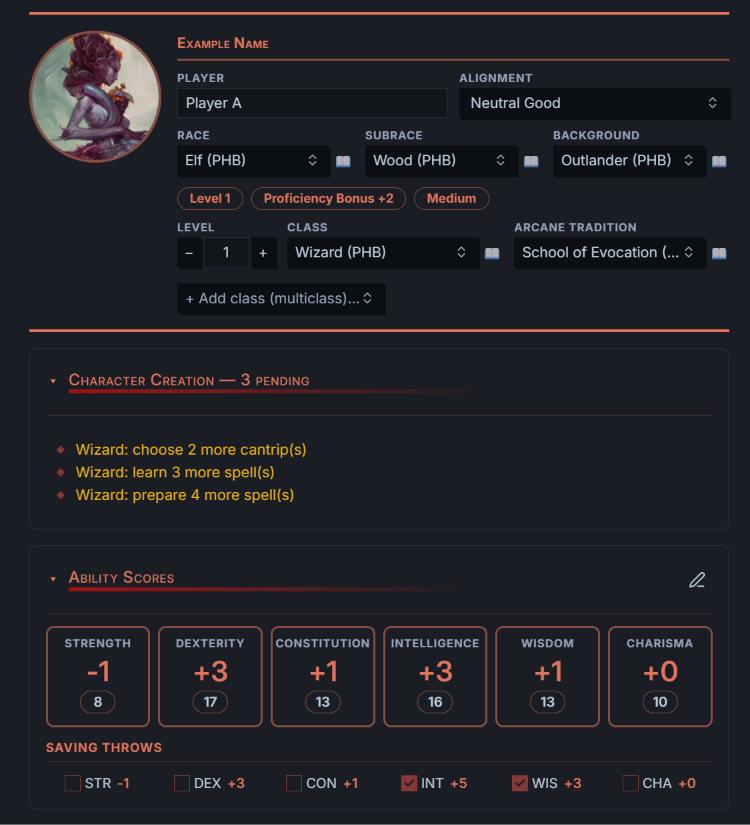
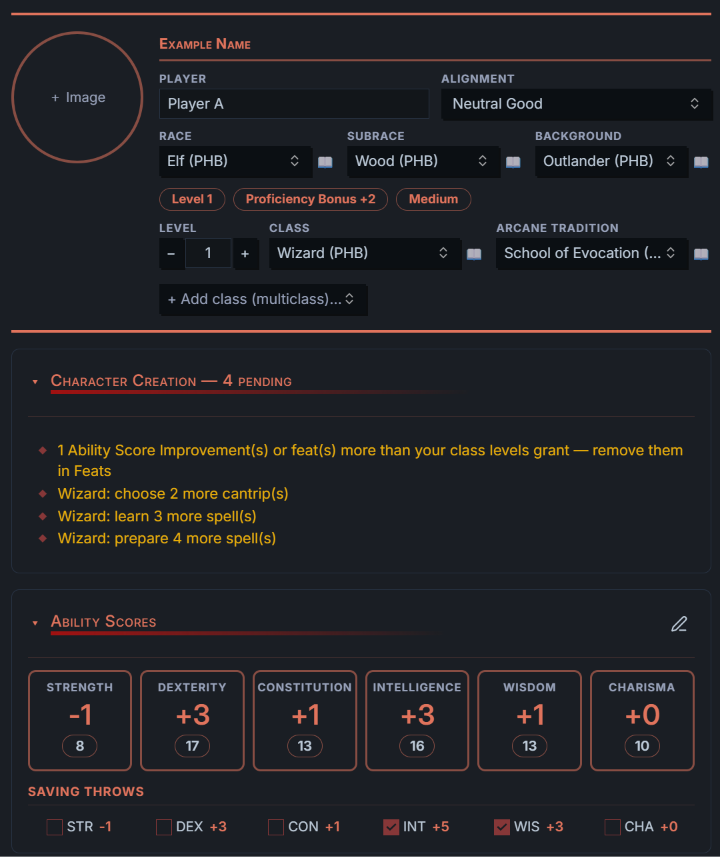
1.0.1: clamp current HP, flag extra ASIs, Button for image removal

diff --git a/src/ui/sheet.ts b/src/ui/sheet.ts
@@ -51,6 +51,12 @@ export class CharacterSheet extends MarkdownRenderChild {
   // ---------------------------------------------------------------- persistence
   private change(mutate: (s: CharState) => void, rerender = true) {
     mutate(this.s);
+    // a lower maximum (level down, CON down, manual edit) must not leave current HP above it
+    if (this.s.hp.current != null) {
+      const view = this.manual ? E.manualView(this.s) : this.s;
+      const max = this.manual ? this.s.manual.maxHp : E.hpBreakdown(this.r, view).max;
+      this.s.hp.current = E.currentHp(this.s, max);
+    }
     this.plugin.states.set(this.sourcePath, this.s);
     if (this.saveTimer) window.clearTimeout(this.saveTimer);
     this.saveTimer = window.setTimeout(() => this.flush(), 500);
@@ -75,7 +81,7 @@ export class CharacterSheet extends MarkdownRenderChild {
       fm.ac = man ? s0.manual.ac : E.armorClass(r, s, sc).value;
       fm.modifier = E.initiative(r, s, sc);
       fm.stats = ABILITIES.map((a) => sc[a].total);
-      if (s.image) fm.image = s.image;
+      if (s0.image) fm.image = s0.image; else delete fm.image;
       for (const k of Object.keys(fm)) if (fm[k] === undefined) delete fm[k];
     });
   }
@@ -157,11 +163,20 @@ export class CharacterSheet extends MarkdownRenderChild {
   private header(root: HTMLElement, sc: Record<Ability, E.AbilityBreakdown>) {
     const s = this.v, r = this.r;
     const head = root.createDiv({ cls: "dnd-header" });
-    const img = head.createDiv({ cls: "dnd-portrait", attr: { "aria-label": "Click to choose an image" } });
+    // the remove button sits outside the round portrait so the circle does not clip it
+    const pwrap = head.createDiv({ cls: "dnd-portrait-wrap" });
+    const img = pwrap.createDiv({ cls: "dnd-portrait", attr: { "aria-label": "Click to choose an image" } });
     const file = s.image ? this.app.vault.getAbstractFileByPath(s.image) : null;
     if (file instanceof TFile) img.createEl("img", { attr: { src: this.app.vault.getResourcePath(file) } });
     else img.createDiv({ cls: "dnd-portrait-empty", text: "＋ Image" });
-    img.onclick = () => new Picker(this.app, imageFiles(this.app), (f) => f.path, (f) => this.change((x) => { x.image = f.path; }), "Choose a portrait image…").open();
+    const removeImage = () => this.change((x) => { x.image = ""; });
+    img.onclick = () => {
+      // "No image" comes first in the list when there is an image to remove
+      const NONE = { path: "— No image —" } as unknown as TFile;
+      const items: TFile[] = s.image ? [NONE, ...imageFiles(this.app)] : imageFiles(this.app);
+      new Picker(this.app, items, (f) => f.path, (f) => (f === NONE ? removeImage() : this.change((x) => { x.image = f.path; })), "Choose a portrait image…").open();
+    };
+    if (s.image) iconButton(pwrap, "x", "Remove image", removeImage, "dnd-portrait-remove");
 
     const info = head.createDiv({ cls: "dnd-header-info" });
     textInput(info, s.name, (v) => this.change((x) => { x.name = v; }), "Character name", "dnd-name");
@@ -346,7 +361,7 @@ export class CharacterSheet extends MarkdownRenderChild {
       // manual mode: AC, max HP and speed are typed in instead of computed
       const hp = man ? { max: m.maxHp } : E.hpBreakdown(r, s, sc);
       const ac = man ? { value: m.ac, how: "", stealthDisadvantage: false } : E.armorClass(r, s, sc);
-      const cur = s.hp.current ?? hp.max;
+      const cur = E.currentHp(s, hp.max);
       const stats = el.createDiv({ cls: "dnd-combat-stats" });
       const acBox = stats.createDiv({ cls: "dnd-stat" });
       acBox.createDiv({ cls: "dnd-stat-label", text: "Armor Class" });
@@ -540,8 +555,9 @@ export class CharacterSheet extends MarkdownRenderChild {
     }
     const s = this.v, r = this.r;
     const slots = E.asiSlots(r, s), taken = E.asiTaken(s);
-    this.section(root, "feats", `Feats & Ability Score Improvements${slots ? ` (${taken}/${slots})` : ""}`, (el) => {
-      if (slots) el.createDiv({ cls: taken > slots ? "dnd-warn" : "dnd-hint", text: `Your class levels grant ${slots} Ability Score Improvement(s). Each can be +2 to one ability, +1 to two, or a feat.` });
+    this.section(root, "feats", `Feats & Ability Score Improvements${slots || taken ? ` (${taken}/${slots})` : ""}`, (el) => {
+      if (taken > slots) el.createDiv({ cls: "dnd-warn", text: `${taken} Ability Score Improvement(s)/feat(s) used, but your class levels grant ${slots || "none yet"}. Remove the extra ones.` });
+      else if (slots) el.createDiv({ cls: "dnd-hint", text: `Your class levels grant ${slots} Ability Score Improvement(s). Each can be +2 to one ability, +1 to two, or a feat.` });
       s.feats.forEach((fe, i) => {
         const row = el.createDiv({ cls: "dnd-row" });
         if (fe.id === E.ASI_ID) {

diff --git a/src/rules/engine.ts b/src/rules/engine.ts
@@ -280,6 +280,10 @@ export function hpBreakdown(r: Rules, s: CharState, scores = abilityScores(r, s)
   const computed = Math.max(level, dice + con * level + racial + tough + draconic) + (s.hp.adjust || 0);
   return { dice, con: con * level, racial, tough, draconic, adjust: s.hp.adjust || 0, max: s.hp.override ?? computed };
 }
+/** Current HP, never above the maximum or below 0 (no current value yet = full health). */
+export function currentHp(s: CharState, max: number) {
+  return Math.max(0, Math.min(s.hp.current ?? max, max));
+}
 export function hitDice(r: Rules, s: CharState) {
   const by: Record<string, number> = {};
   s.classes.forEach((e) => { const hd = `d${r.cls(e.id)?.hd || 8}`; by[hd] = (by[hd] || 0) + e.level; });
@@ -497,6 +501,7 @@ export function pendingChoices(r: Rules, s: CharState): string[] {
   if (s.abilities.method === "pointbuy") { const pbs = pointBuySpent(s.abilities.base); if (!pbs.valid) out.push("Point buy is over 27 points or out of range (8–15)"); else if (pbs.remaining > 0) out.push(`${pbs.remaining} point-buy point(s) unspent`); }
   const free = asiSlots(r, s) - asiTaken(s);
   if (free > 0) out.push(`${free} Ability Score Improvement(s) available — add an ASI or a feat in Feats`);
+  if (free < 0) out.push(`${-free} Ability Score Improvement(s) or feat(s) more than your class levels grant — remove them in Feats`);
   s.feats.filter((f) => f.id === ASI_ID && f.picks.filter(Boolean).length < 2).forEach(() => out.push("Choose the abilities for your Ability Score Improvement"));
   const scores = abilityScores(r, s);
   for (const ci of casters(r, s, scores)) {

diff --git a/styles.css b/styles.css
@@ -104,11 +104,21 @@
   border-bottom: 3px solid var(--dnd-accent);
 }
 .dnd-portrait {
-  flex: 0 0 132px; height: 132px; border-radius: 50%; overflow: hidden; cursor: pointer;
+  width: 132px; height: 132px; border-radius: 50%; overflow: hidden; cursor: pointer;
   border: 3px solid var(--dnd-rule); background: var(--background-secondary);
   display: flex; align-items: center; justify-content: center;
 }
 .dnd-portrait img { width: 100%; height: 100%; object-fit: cover; }
+.dnd-portrait-wrap { position: relative; flex: 0 0 132px; }
+.dnd-sheet .dnd-portrait-remove {
+  position: absolute; top: 2px; right: 2px; width: 26px; height: 26px; border-radius: 50%;
+  background: var(--background-primary); border: 1px solid var(--dnd-rule); box-shadow: var(--shadow-s);
+  opacity: 0; transition: opacity 120ms ease-in-out;
+}
+.dnd-portrait-wrap:hover .dnd-portrait-remove, .dnd-sheet .dnd-portrait-remove:focus-visible { opacity: 1; }
+.dnd-sheet .dnd-portrait-remove:hover { color: var(--text-error); border-color: var(--text-error); }
+/* touch screens have no hover: keep the button visible */
+@media (hover: none) { .dnd-sheet .dnd-portrait-remove { opacity: 1; } }
 .dnd-portrait-empty { color: var(--text-muted); font-size: 0.85rem; }
 .dnd-header-info { flex: 1; min-width: 0; display: flex; flex-direction: column; gap: var(--dnd-s3); }
 .dnd-sheet .dnd-name {

diff --git a/test/srd-manual.test.ts b/test/srd-manual.test.ts
@@ -83,3 +83,25 @@ test("switching modes keeps both sets of fields", () => {
   assert.equal(E.totalLevel(E.manualView(round)), 2);
   assert.equal(E.totalLevel(round), 4);
 });
+
+test("current HP never shows above the maximum", () => {
+  const s = E.newCharacter("Hp");
+  assert.equal(E.currentHp(s, 12), 12); // no value yet = full health
+  s.hp.current = 32;
+  assert.equal(E.currentHp(s, 7), 7);
+  s.hp.current = -3;
+  assert.equal(E.currentHp(s, 7), 0);
+  s.hp.current = 5;
+  assert.equal(E.currentHp(s, 7), 5);
+});
+
+test("extra Ability Score Improvements are flagged", () => {
+  const s = E.newCharacter("Asi");
+  const wizard = srd.classes.find((c: any) => c.name === "Wizard");
+  s.classes = [{ id: wizard.id, subclass: null, level: 1, hpRolls: [], skills: [] }];
+  s.feats = [{ id: E.ASI_ID, picks: ["int", "dex"] }];
+  assert.equal(E.asiSlots(r, s), 0);
+  assert.ok(E.pendingChoices(r, s).some((p) => /more than your class levels grant/.test(p)));
+  s.classes[0].level = 4;
+  assert.ok(!E.pendingChoices(r, s).some((p) => /more than your class levels grant|available/.test(p)));
+});

diff --git a/README.md b/README.md
@@ -1,10 +1,64 @@
-# 5e Character Sheet for Obsidian
+<h1 align="center">5e Character Sheet</h1>
 
-An interactive character sheet for **fifth edition (2014 rules)** characters, living inside an ordinary Obsidian note. Create a character in a few clicks, keep your friends' characters next to your campaign notes, and roll straight from the sheet.
+<p align="center">
+  Interactive <b>fifth edition (2014 rules)</b> character sheets that live inside your Obsidian notes.<br>
+  Create a character in a few clicks, keep your friends' characters next to your campaign notes, and roll straight from the sheet.
+</p>
 
-> Unofficial. Not affiliated with, endorsed, sponsored or approved by Wizards of the Coast. See [Legal](#legal).
+<p align="center">
+  <a href="https://github.com/admiravelhomemdasneves/5eCharacterSheet/releases/latest"><img src="https://img.shields.io/github/v/release/admiravelhomemdasneves/5eCharacterSheet?label=release&color=922610" alt="Latest release"></a>
+  <img src="https://img.shields.io/badge/Obsidian-1.4%2B-7c3aed" alt="Obsidian 1.4+">
+  <img src="https://img.shields.io/badge/rules-5e%202014-922610" alt="5e 2014 rules">
+  <a href="LICENSE"><img src="https://img.shields.io/badge/license-MIT-blue" alt="MIT license"></a>
+</p>
 
-## Features
+<p align="center"><img src="https://raw.githubusercontent.com/admiravelhomemdasneves/5eCharacterSheet/main/docs/images/Sheet01.png" alt="Character sheet: portrait, race, class and ability scores" width="720"></p>
+
+> Unofficial fan project. Not affiliated with, endorsed, sponsored or approved by Wizards of the Coast. See [Legal](#legal).
+
+## Highlights
+
+- **Everything in one note.** Race, class (multiclass included), background, ability scores, combat, skills, features, spells, inventory, personality and a diary, saved in the note itself.
+- **Rules done for you.** Racial bonuses, proficiency, saves and skills, AC, hit points, spell save DC, spell slots (single and multiclass), class features by level and a creation checklist that tells you what is still missing.
+- **Works with or without game data.** Manual mode for homebrew and quick notes, the SRD 5.1 built in, or import the books you own.
+- **Roll from the sheet.** Click any bonus to roll; Shift-click for advantage, Ctrl/Cmd-click for disadvantage. Uses [Dice Roller](https://github.com/javalent/dice-roller) when installed.
+- **Linked to your notes.** Optional links and page previews to a compendium, `[[links]]` in every text field, and Initiative Tracker integration.
+
+## A quick tour
+
+### Choose race, class and background
+Searchable menus grouped by book. Hover an option to preview its compendium note before choosing.
+
+<p align="center"><img src="https://raw.githubusercontent.com/admiravelhomemdasneves/5eCharacterSheet/main/docs/images/MenuDropDown.png" alt="Race menu with the compendium note preview" width="780"></p>
+
+### Combat and skills
+AC, initiative and speed are calculated from your equipment, class and race, and can be adjusted with + and −. Track HP, temporary HP, exhaustion, death saves, hit dice and conditions. Skills show where each proficiency comes from; click the dot to cycle none → proficient → expertise.
+
+<p align="center"><img src="https://raw.githubusercontent.com/admiravelhomemdasneves/5eCharacterSheet/main/docs/images/Sheet02.png" alt="Combat and skills" width="720"></p>
+
+### Attacks and features
+Attacks come from your equipped weapons. Race, background and class features are filled in as you level up; expand any of them to read the full text.
+
+<p align="center"><img src="https://raw.githubusercontent.com/admiravelhomemdasneves/5eCharacterSheet/main/docs/images/Sheet03.png" alt="Attacks and race and background features" width="720"></p>
+
+<p align="center"><img src="https://raw.githubusercontent.com/admiravelhomemdasneves/5eCharacterSheet/main/docs/images/Sheet04.png" alt="Class features, feats and ability score improvements" width="720"></p>
+
+### Spellcasting
+Spell save DC, spell attack, prepared and known counts, and slots per level that you can tick off or adjust. Prepared spells stay at the top of the list.
+
+<p align="center"><img src="https://raw.githubusercontent.com/admiravelhomemdasneves/5eCharacterSheet/main/docs/images/Sheet05.png" alt="Spellcasting: slots and spell list" width="720"></p>
+
+### Inventory and proficiencies
+Items with quantity, weight, equipped and attuned (max 3), coins, carrying capacity, and the proficiencies and languages your choices give you.
+
+<p align="center"><img src="https://raw.githubusercontent.com/admiravelhomemdasneves/5eCharacterSheet/main/docs/images/Sheet06.png" alt="Inventory, coins, proficiencies and languages" width="720"></p>
+
+### Personality, biography and diary
+Plain text when you read, a text box when you click. Type `[[` to link any note in your vault.
+
+<p align="center"><img src="https://raw.githubusercontent.com/admiravelhomemdasneves/5eCharacterSheet/main/docs/images/Sheet07.png" alt="Personality, appearance, biography, diary and events" width="720"></p>
+
+## All features
 
 - **Header** with portrait, name, player, alignment, race, subrace, background and classes (multiclass supported, with prerequisites checked).
 - **Ability scores** with Point Buy (validated), Standard Array, 4d6 rolls or manual entry; racial bonuses applied automatically; an edit mode keeps the view clean.
@@ -14,9 +68,11 @@ An interactive character sheet for **fifth edition (2014 rules)** characters, li
 - **Feats and Ability Score Improvements** counted against the ASIs your class levels grant.
 - **Spellcasting**: spell save DC, spell attack, prepared/known counts, spell slots for single and multiclass casters (Pact Magic separate), slots you can add or remove, and a spell list with prepared spells first. Domain/oath/circle spells are added automatically.
 - **Inventory and coins**, attunement (max 3), carrying capacity, attacks from equipped weapons.
-- **Personality, appearance, biography, diary and events** — rendered Markdown with `[[links]]`; click to edit, type `[[` to pick a note.
+- **Personality, appearance, biography, diary and events**: rendered Markdown with `[[links]]`; click to edit, type `[[` to pick a note.
 - **Rolls**: click any bonus to roll; Shift-click = advantage, Ctrl/Cmd-click = disadvantage. Uses the [Dice Roller](https://github.com/javalent/dice-roller) plugin when it is installed, a built-in roller otherwise.
 - **Initiative Tracker**: the sheet keeps `name`, `level`, `hp`, `ac` and `modifier` in the note's properties, which [Initiative Tracker](https://github.com/javalent/initiative-tracker) reads for players linked to a note.
+
+> The screenshots show content imported from the books the author owns. The plugin itself ships only the SRD 5.1; see [Rules data](#rules-data).
 
 ## Requirements
 
